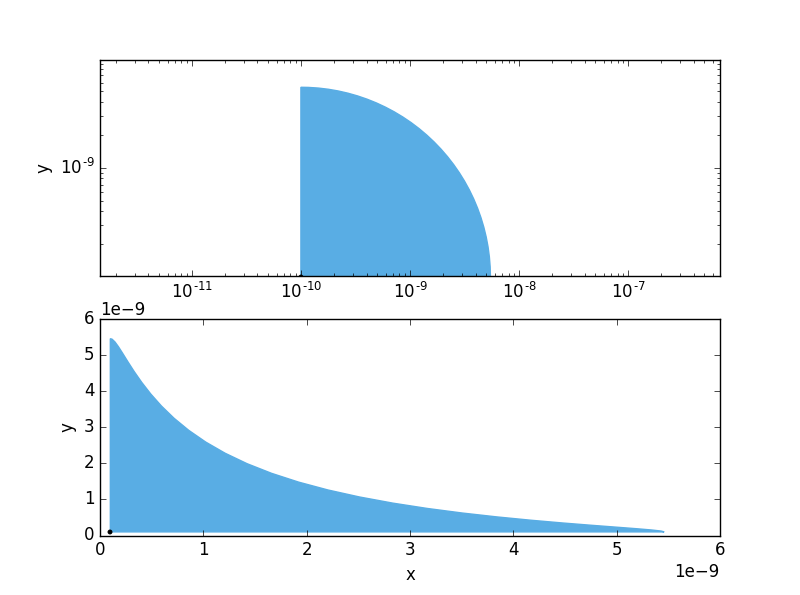
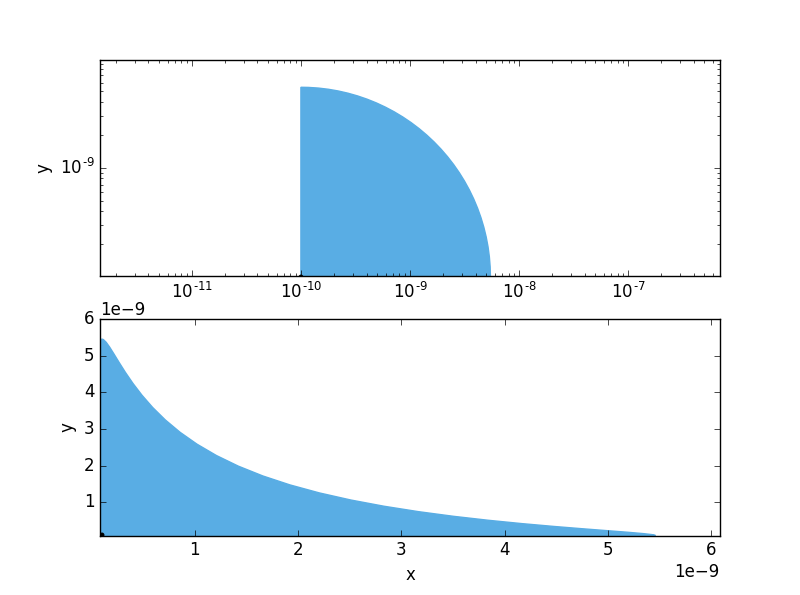
Fixing feasibility plot axes.

diff --git a/plot_feasibilities.py b/plot_feasibilities.py
@@ -82,7 +82,7 @@ def plot_feasibilities(x, y, m, rm=None, rmtype=None):
         axes[0].add_patch(p)
     plot_uncertainty_set(axes[0])
     axes[0].axis("equal")
-    # axes[0].set_ylim([0.1, 1])
+    #axes[0].set_ylim([1e-10, 6e-9])
     axes[0].set_ylabel(y)
 
     perimeter = np.array([orig_a, orig_b]).T
@@ -93,8 +93,8 @@ def plot_feasibilities(x, y, m, rm=None, rmtype=None):
         p = Polygon(perimeter, True, color=GPCOLORS[1], alpha=0.5, linewidth=0)
         axes[1].add_patch(p)
     plot_uncertainty_set(axes[1])
-    # axes[1].set_xlim([0, 6])
-    # axes[1].set_ylim([0, 1])
+    #axes[1].set_xlim([1e-10, 6e-9])
+    #axes[1].set_ylim([1e-10, 6e-9])
     axes[1].set_xlabel(x)
     axes[1].set_ylabel(y)
 

diff --git a/feas_set.py b/feas_set.py
@@ -14,8 +14,8 @@ y = Variable('y')
 constraints = []
 constraints += [x + y <= 2,
                 x*y <= 1./2.,
-                #1 >= 10**-10/x,
-                #1 >= 10**-10/y
+                1 >= 10**-10/x,
+                1 >= 10**-10/y
                 ]
 m = Model(x,constraints)
 sol = m.solve()
@@ -40,7 +40,7 @@ plot_feasibilities(x,y,m)
 
 
 # m = Mission(5)
-# m.cost = m['W_f'] * units('1/N') + m['Cost Index'] * m['t_m']
+# m.cost = m['W_f'] * units('1/N') + m['C'] * m['t_m']
 # sol = m.localsolve()
 #
 # substitutions = {'V_{f_{wing}}':sol('V_{f_{wing}}').magnitude*sol('V_{f_{wing}}').units,
